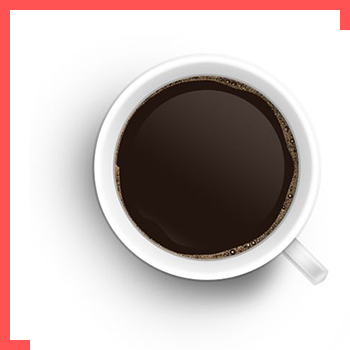
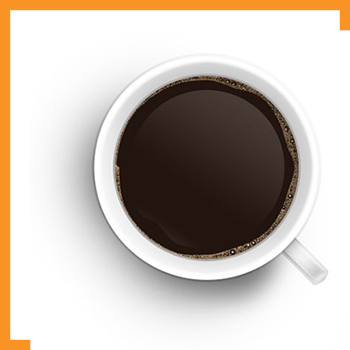
update responsive mobile and desktop

Changed region(s): [[0.0, 0.0, 1.0, 1.0]]

diff --git a/src/components/IndexPage/IndexPage.jsx b/src/components/IndexPage/IndexPage.jsx
@@ -2,10 +2,38 @@ import React, { Component } from 'react'
 import { Parallax, Row, Col, Button, Icon, MediaBox } from 'react-materialize'
 import {Link} from 'react-router-dom'
 import "./IndexPage.css"
-
+var $ = require( 'jquery' )
 
 
 export default class IndexPage extends Component {
+    constructor(props) {
+        super(props);
+        this.state = {
+            parallax_me_img : ""
+        };
+    }
+
+    componentDidMount() {
+        var w = window.innerWidth;
+        if(w < 601){
+            console.log('s',w);
+            $('.parallax-container').css('height' , '200px')
+            this.setState({parallax_me_img : "./assets/parallax-me-small.png"})
+        }else if(w >= 601 && w < 993){
+            console.log('m',w);
+            $('.parallax-container').css('height' , '400px')
+            this.setState({parallax_me_img : "./assets/parallax-me-medium.png"})
+        }else if(w >= 993 && w < 1201){
+            console.log('l',w);
+            $('.parallax-container').css('height' , '500px')
+            this.setState({parallax_me_img : "./assets/parallax-me-large.png"})
+        }else if(w >= 1201){
+            console.log('xl',w);
+            $('.parallax-container').css('height' , '500px')
+            this.setState({parallax_me_img : "./assets/parallax-me-exlarge.png"})
+        }
+    }
+
     componentWillMount() {
         // window.location.href = '#/form/cod/พนักงานหน้าร้าน'
     }
@@ -13,15 +41,15 @@ export default class IndexPage extends Component {
     render() {
         return (
             <div>
-                <Parallax imageSrc="./assets/bg-homepage.jpg"/>
+                <Parallax imageSrc={this.state.parallax_me_img}/>
                 <div className="section white">
                     <div className="row container">
-                        <h2 className="header center-align text-redpink">About Me</h2>
+                        <h2 className="header center-align text-orangefox">About Me</h2>
                         <Row>
-                            <Col s={12} m={3} l={3}>
+                            <Col s={12} m={3} l={2} className="xl2">
                                 <img src="./assets/coffee.png" alt="" style={{width:"100%"}}/>
                             </Col>
-                            <Col s={12} m={9} l={9}>
+                            <Col s={12} m={9} l={10} className="xl10">
                                 <p className="grey-text text-darken-3 lighten-3 font-25">Parallax is an effect where the background content or image in this case, is moved at a different speed than the foreground content while scrolling.</p>
                                 <p className="grey-text text-darken-3 lighten-3 font-25 mt-10">Parallax is an effect where the background content or image in this case, is moved at a different speed than the foreground content while scrolling.</p>
                                 <Button className="btn-contact-now z-depth-0 hide-on-small-only">Contact Now</Button>
@@ -64,10 +92,10 @@ export default class IndexPage extends Component {
                 </div>
                 <div className="section grey lighten-5">
                     <div className="row container">
-                        <h2 className="header center-align text-redpink">Lastest Works</h2>
+                        <h2 className="header center-align text-orangefox">Lastest Works</h2>
                         <Row>
                             <Col s={12} m={6}>
-                                <h5 className="text-redpink">SHOPPING ONLINE</h5>
+                                <h5 className="text-orangefox">SHOPPING ONLINE</h5>
                                 <Row>
                                     <Col s={12} m={6}>
                                         <MediaBox src="./work/shopping/shopping1.png" caption="SHOPPING ONLINE" width="100%"/>
@@ -78,7 +106,7 @@ export default class IndexPage extends Component {
                                 </Row>
                             </Col>
                             <Col s={12} m={6}>
-                                <h5 className="text-redpink">CAREER WEBSITE</h5>
+                                <h5 className="text-orangefox">CAREER WEBSITE</h5>
                                 <Row>
                                     <Col s={12} m={6}>
                                         <MediaBox src="./assets/Frontend-Dev-Jobs.jpg" caption="CAREER WEBSITE" width="100%"/>
@@ -89,7 +117,7 @@ export default class IndexPage extends Component {
                                 </Row>
                             </Col>
                             <Col s={12} m={6}>
-                                <h5 className="text-redpink">CONTENT ON STREAMIMG</h5>
+                                <h5 className="text-orangefox">CONTENT ON STREAMIMG</h5>
                                 <Row>
                                     <Col s={12} m={6}>
                                         <MediaBox src="./assets/Frontend-Dev-Jobs.jpg" caption="CONTENT ON STREAMIMG" width="100%"/>
@@ -100,7 +128,7 @@ export default class IndexPage extends Component {
                                 </Row>
                             </Col>
                             <Col s={12} m={6}>
-                                <h5 className="text-redpink">HUMAN RESOURCE MANAGEMENT SYSTEM</h5>
+                                <h5 className="text-orangefox">HUMAN RESOURCE MANAGEMENT SYSTEM</h5>
                                 <Row>
                                     <Col s={12} m={6}>
                                         <MediaBox src="./assets/Frontend-Dev-Jobs.jpg" caption="HUMAN RESOURCE MANAGEMENT SYSTEM" width="100%"/>
@@ -111,7 +139,7 @@ export default class IndexPage extends Component {
                                 </Row>
                             </Col>
                         </Row>
-                        <Link to="/"><p className="text-redpink right-align">SEE MORE</p></Link>
+                        <Link to="/"><p className="text-orangefox right-align">SEE MORE</p></Link>
                     </div>
                 </div>
             </div>

diff --git a/src/App.css b/src/App.css
@@ -9,8 +9,8 @@ main {
   font-family: supermarket;
 }
 
-.text-redpink {
-  color: #ff5253;
+.text-orangefox {
+  color: #f99324;
 }
 
 .radius-5 {
@@ -35,8 +35,8 @@ main {
 
 .btn-contact-now , .btn-contact-now:hover {
   background: #fff;
-  color: #ff5253;
-  border: 1px solid #ff5253;
+  color: #f99324;
+  border: 1px solid #f99324;
   border-radius: 20px;
   font-size: large;
   height: 50px;
@@ -44,9 +44,9 @@ main {
 }
 
 .btn-portfolio-now , .btn-portfolio-now:hover {
-  background: #ff5253;
+  background: #f99324;
   color: #fff;
-  border: 1px solid #ff5253;
+  border: 1px solid #f99324;
   border-radius: 20px;
   font-size: large;
   height: 50px;

diff --git a/src/components/Footer/FooterPage.jsx b/src/components/Footer/FooterPage.jsx
@@ -28,7 +28,7 @@ export default class FooterPage extends Component {
                         </div>
                     }
                     className='example'
-                    style={{backgroundColor : "#ff5253"}}
+                    style={{backgroundColor : "#f99324"}}
                 >
                     <h5 className="white-text">Contact</h5>
                     {/* <p className="grey-text text-lighten-4" style={{fontSize : "20px"}}>968 อาคารอื้อจื่อเหลียง ชั้น 5 ถ.พระราม 4 แขวงสีลม เขตบางรัก กรุงเทพฯ 10500</p> */}

diff --git a/src/components/IndexPage/IndexPage.css b/src/components/IndexPage/IndexPage.css
@@ -8,7 +8,7 @@ li.list {
 /************************************************/
 .pricing-table {
     margin-top: 50px;
-    border: 4px solid #ff5253;
+    border: 4px solid #f99324;
 }
 
 .pricing-table .pricing-header {
@@ -27,5 +27,9 @@ li.list {
     font-size: 35px;
     background-color: #ffffff;
     transform: translateY(-50%);
-    color: #ff5253;
+    color: #f99324;
+}
+
+.parallax-small {
+    height: 250px;
 }

diff --git a/src/components/Navbar/Navbar.css b/src/components/Navbar/Navbar.css
@@ -1,5 +1,5 @@
 #nav-resume {
-    background-color: #ff5253;
+    background-color: #f99324;
 }
 #nav-resume ul:first-child li a {
     color: white;
